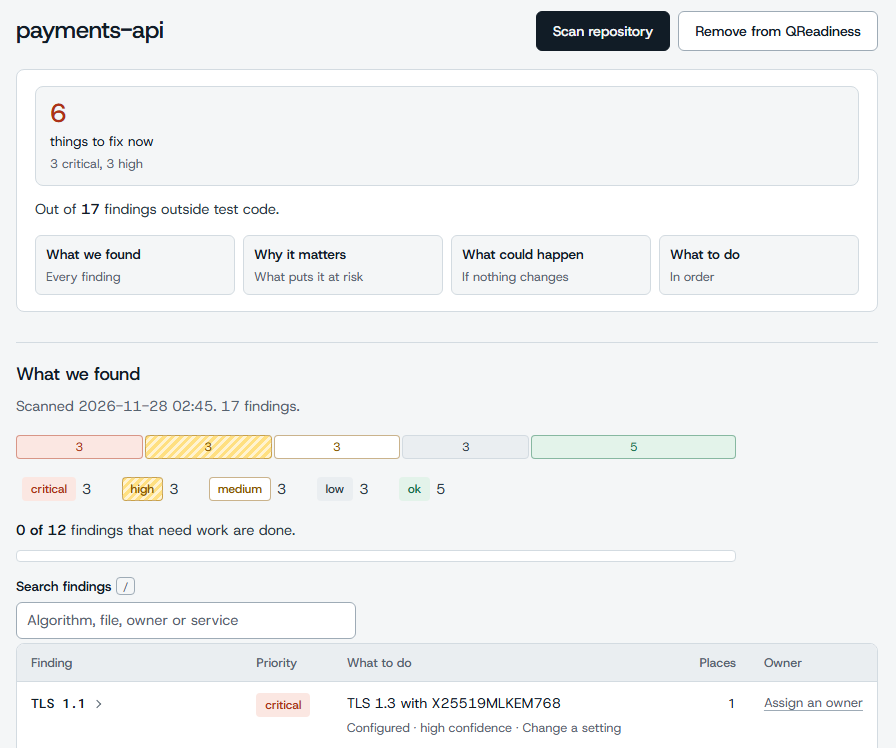
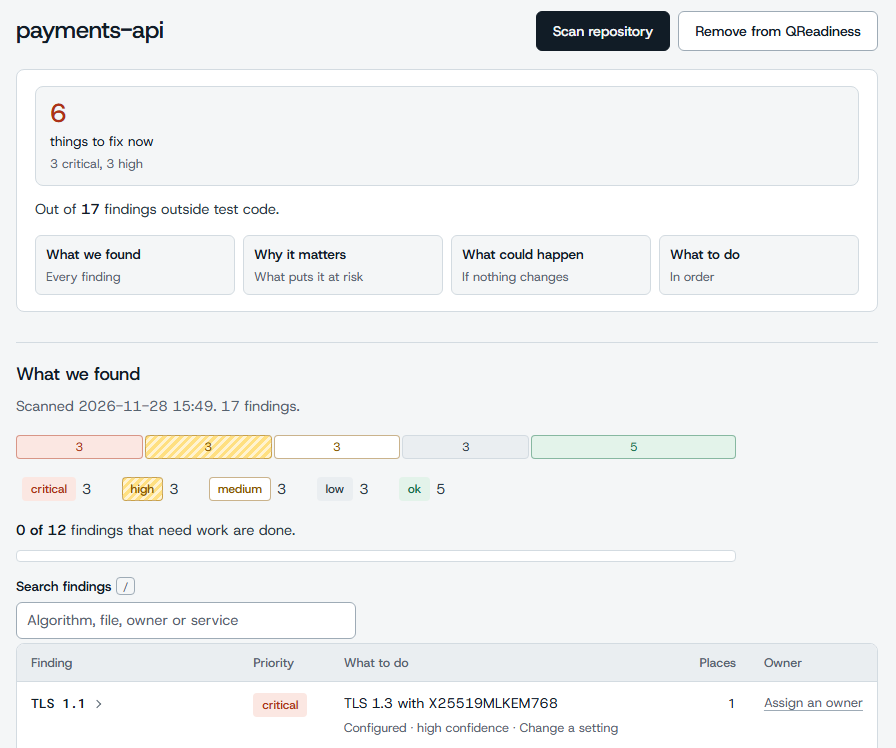
Keep the owner and revoke columns in view in the console tables
QReadiness: an open finding with long source paths or example code pushed the findings table past its area, hiding Assign an owner. Paths now break after a slash and example code wraps.

QVPN People: with someone connected, the table ran past its area and hid Revoke. "Since" now sits under the Connected pill, and traffic shows its two directions on two lines.

Each fix has a browser test that failed before it. Probing every tab of all three consoles at 1280 and 1440 px finds no other table wider than its area. The website screenshots are remade from the fixed consoles.

diff --git a/products/vpn/src/acxelin_vpn/console.html b/products/vpn/src/acxelin_vpn/console.html
@@ -174,9 +174,9 @@ async function paintPeople() {
   if (!out) return;
   let d; try { d = await call("people"); } catch (e) { return; }
   const rows = d.people.map((p) => h("tr", {}, h("td", {}, p.name),
-    h("td", {}, p.connected ? pill("ok", "Connected") : p.agreed ? pill("warn", "Keys agreed, no handshake") : pill("mute", "Not connected")),
-    h("td", {class: "num"}, p.connected ? when(p.since) : ""),
-    h("td", {class: "num"}, p.agreed ? "↓ " + bytes(p.bytes_in) + " ↑ " + bytes(p.bytes_out) : ""),
+    h("td", {}, p.connected ? pill("ok", "Connected") : p.agreed ? pill("warn", "Keys agreed, no handshake") : pill("mute", "Not connected"),
+      p.connected && p.since ? h("div", {class: "legend"}, "since " + when(p.since)) : ""),
+    h("td", {class: "num"}, p.agreed ? ["↓ " + bytes(p.bytes_in), h("br"), "↑ " + bytes(p.bytes_out)] : ""),
     h("td", {class: "num", title: p.handshake_age_s == null ? "" : "last WireGuard handshake " + span(p.handshake_age_s) + " ago"}, p.key_age_s == null ? "" : span(p.key_age_s) + " ago"),
     h("td", {}, p.address || ""),
     h("td", {}, p.certificate === "valid" ? pill("ok", "Valid") : p.certificate === "revoked" ? pill("bad", "Revoked") : pill("mute", "Unknown")),
@@ -190,7 +190,7 @@ async function paintPeople() {
       }}, "Cancel"))))) : "";
   out.replaceChildren(noteLine("peopleNote"), pending, d.gateways.length ? h("p", {class: "legend", style: "margin:0 0 12px"}, d.gateways.map((g) => g.error ? g.name + ": not answering. " : g.name + (g.up_s == null ? "" : ": up " + span(g.up_s)) + ". "))
       : h("p", {class: "legend", style: "margin:0 0 12px"}, "Who is connected now shows once you add a gateway."),
-    d.people.length ? h("div", {class: "scroll", tabindex: "0", role: "region", "aria-label": "People, scrolls sideways"}, h("table", {}, h("thead", {}, h("tr", {}, ["Person", "Now", "Since", "Traffic", "Key renewed", "Address", "Certificate", "Action"].map((c) => h("th", {}, c)))), h("tbody", {}, rows)))
+    d.people.length ? h("div", {class: "scroll", tabindex: "0", role: "region", "aria-label": "People, scrolls sideways"}, h("table", {}, h("thead", {}, h("tr", {}, ["Person", "Now", "Traffic", "Key renewed", "Address", "Certificate", "Action"].map((c) => h("th", {}, c)))), h("tbody", {}, rows)))
       : h("p", {class: "empty"}, "Nobody yet. Use Invite someone to add the first person."),
     h("h2", {style: "margin-top:26px"}, "Recent activity"),
     d.activity.length ? h("ul", {class: "acts"}, d.activity.map((a) => h("li", {}, h("span", {class: "mute"}, (a.time || "").replace("T", " ").replace("Z", " UTC")), " ",

diff --git a/products/readiness/src/acxelin_readiness/console.html b/products/readiness/src/acxelin_readiness/console.html
@@ -9,7 +9,7 @@
 .split{grid-template-columns:minmax(0,230px) minmax(0,1fr)}
 @media (max-width:780px){.split{grid-template-columns:minmax(0,1fr)}#pj-main{order:-1}}
 .kinds{display:grid;grid-template-columns:repeat(auto-fit,minmax(200px,1fr));gap:10px;list-style:none;padding:0;margin:0}.kinds li{display:grid;gap:6px;align-content:start;padding:12px 14px;border:1px solid var(--rule);border-top:3px solid var(--amber);border-radius:8px;background:var(--bg)}.kinds h3{margin:0;font-size:15px}.kinds p{margin:0;font-size:13.5px}.cov-group h3{margin:22px 0 6px;font-size:15px}#cov h2{margin-top:34px}#cov h2:first-child{margin-top:8px}.seg.chip{display:inline-block;padding:1px 8px;border:1px solid transparent;border-radius:4px;font-size:12.5px;white-space:nowrap}
-td.asset{font-family:var(--mono);font-size:13px}
+td.asset{font-family:var(--mono);font-size:13px;overflow-wrap:anywhere}td pre{white-space:pre-wrap;overflow-wrap:anywhere}
 details.where summary::after,details.more summary::after{content:"";display:inline-block;width:5px;height:5px;margin:0 2px 2px 8px;
 border:solid var(--muted);border-width:0 1.5px 1.5px 0;transform:rotate(-45deg);vertical-align:middle}
 details.where[open] summary::after,details.more[open] summary::after{transform:rotate(45deg);margin-bottom:4px}
@@ -418,10 +418,12 @@ document.addEventListener("keydown", (e) => {
   e.preventDefault(); $("#find").focus();
 });
 const placesOf = (a) => String(a.locations.length) + (!a.test_only && a.test_places ? " (" + a.test_places + " in tests)" : "");
+// A long path may break after a slash (a <wbr>, so copying it still gives the path unchanged).
+const breakable = (s) => s.split(/(?<=[\/\\])/).flatMap((part, i) => (i ? [h("wbr"), part] : [part]));
 function where(a) {
   const shown = a.locations.slice(0, 50);
   return h("details", {class: "where"}, h("summary", {}, a.name),
-    h("ul", {}, shown.map(([f, l]) => h("li", {}, f + ":" + l))),
+    h("ul", {}, shown.map(([f, l]) => h("li", {}, ...breakable(f + ":" + l)))),
     a.locations.length > shown.length ? h("p", {}, "and " + (a.locations.length - shown.length) + " more places") : "",
     (a.missing || []).length ? h("p", {}, "Not seen: " + a.missing.join(", ") + ".") : "", a.why ? h("p", {}, a.why) : "", a.uncertainty ? h("p", {}, a.uncertainty) : "");
 }

diff --git a/products/vpn/tests/browser/test_console_journeys.py b/products/vpn/tests/browser/test_console_journeys.py
@@ -138,6 +138,45 @@ def test_an_administrator_invites_someone_downloads_the_file_and_revokes_alice_i
     c.close()
 
 
+def test_a_connected_person_s_row_fits_with_its_revoke_button_in_view(browser, console):
+    """With someone connected (traffic, key age, address), the People table still fits its area on a laptop screen, so the Revoke
+    button, armed or not, is never past the edge."""
+    import time
+    now = time.time()
+    status = {"_gateway": {"started": now - 3600, "history": []},
+              "alice": {"latest_handshake": now - 20, "since": now - 1800, "address": "10.99.0.2", "rx_bytes": 1234567, "tx_bytes": 98765, "keys_age_s": 16}}
+
+    class Gateway(BaseHTTPRequestHandler):
+        def do_GET(self):
+            body = json.dumps(status).encode()
+            self.send_response(200)
+            self.end_headers()
+            self.wfile.write(body)
+
+        def log_message(self, *a):
+            pass
+    gw = ThreadingHTTPServer(("127.0.0.1", 0), Gateway)
+    threading.Thread(target=gw.serve_forever, daemon=True).start()
+    try:
+        c, page = opened(browser, console)
+        page.get_by_role("tab", name="People").click()
+        page.get_by_label("Name", exact=True).fill("Remote access")
+        page.get_by_label("Status address").fill(f"http://127.0.0.1:{gw.server_address[1]}")
+        page.get_by_role("button", name="Add a gateway").click()
+        page.get_by_text("Connected", exact=True).first.wait_for()
+        region = page.get_by_role("region", name="People, scrolls sideways")
+        for armed in (False, True):
+            if armed:
+                page.get_by_role("button", name="Revoke alice").click()
+            button = page.get_by_role("button", name="Confirm revoke alice" if armed else "Revoke alice")
+            assert region.evaluate("r => r.querySelector('table').scrollWidth <= r.clientWidth"), "the People table is wider than its area"
+            b, r = button.bounding_box(), region.bounding_box()
+            assert b["x"] + b["width"] <= r["x"] + r["width"]
+        c.close()
+    finally:
+        gw.shutdown()
+
+
 def test_health_lists_checks_with_what_to_do(browser, console):
     c, page = opened(browser, console)
     page.get_by_role("tab", name="Health").click()

diff --git a/products/readiness/tests/browser/test_journeys.py b/products/readiness/tests/browser/test_journeys.py
@@ -102,6 +102,27 @@ def test_add_scan_see_priorities_and_assign_an_owner(page, console, repos):
     assert "key_size=2048" not in page.content()
 
 
+def test_an_open_finding_with_long_paths_and_its_example_fix_keeps_the_owner_column_in_view(page, console, tmp_path):
+    """Deep source paths and example code wrap inside their cells, so the findings table fits its area on a laptop screen and
+    'Assign an owner' never sits past the edge."""
+    deep = tmp_path / "repos/vault/src/main/java/com/example/payments"
+    deep.mkdir(parents=True)
+    (deep / "CardVault.java").write_text('import javax.crypto.Cipher;\nclass CardVault {\n  Cipher c() throws Exception {\n'
+                                         '    return Cipher.getInstance("AES/ECB/PKCS5Padding");\n  }\n}\n')
+    open_console(page, console)
+    fill_setup(page, tmp_path / "repos")
+    page.get_by_label("Add a repository").select_option("vault")
+    page.get_by_role("button", name="Add and scan").click()
+    page.get_by_text("AES-ECB").first.wait_for(timeout=30000)
+    page.get_by_text("AES-ECB").first.click()
+    page.get_by_text("Example fix in Java").first.click()
+    region = page.get_by_role("region", name="Findings, scrolls sideways")
+    assert region.evaluate("r => r.querySelector('table').scrollWidth <= r.clientWidth"), "the findings table is wider than its area"
+    owner = page.get_by_text("Assign an owner").first.bounding_box()
+    box = region.bounding_box()
+    assert owner["x"] + owner["width"] <= box["x"] + box["width"]
+
+
 def test_an_open_list_of_places_and_a_half_typed_owner_survive_a_running_scan(page, console, repos):
     open_console(page, console)
     fill_setup(page, repos)
